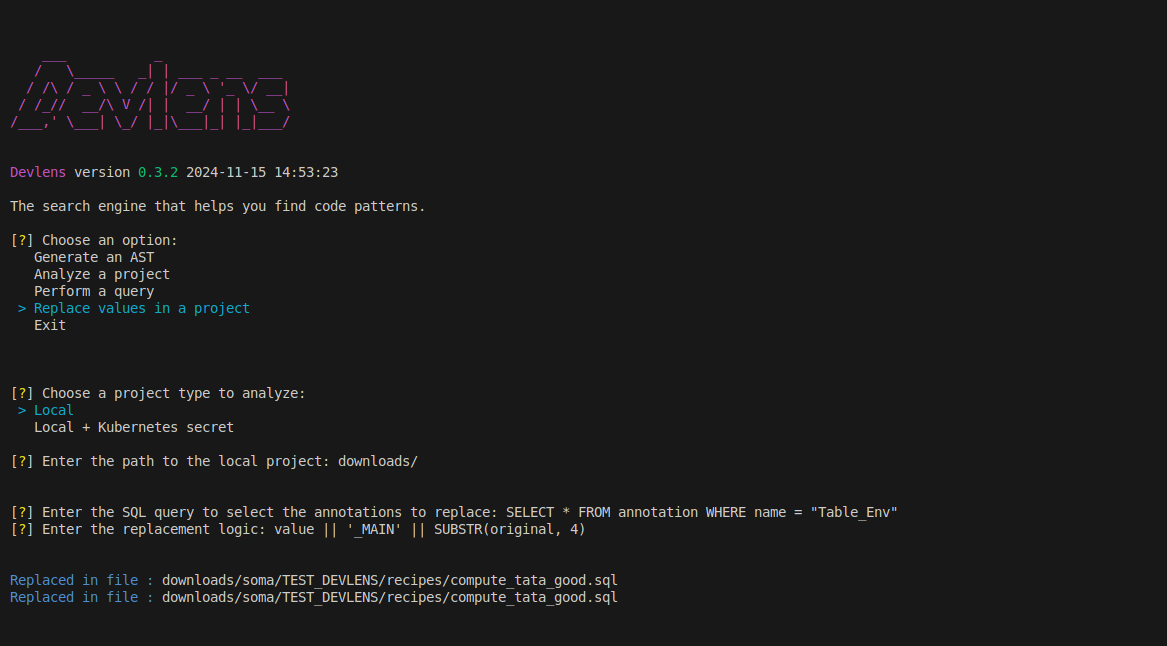
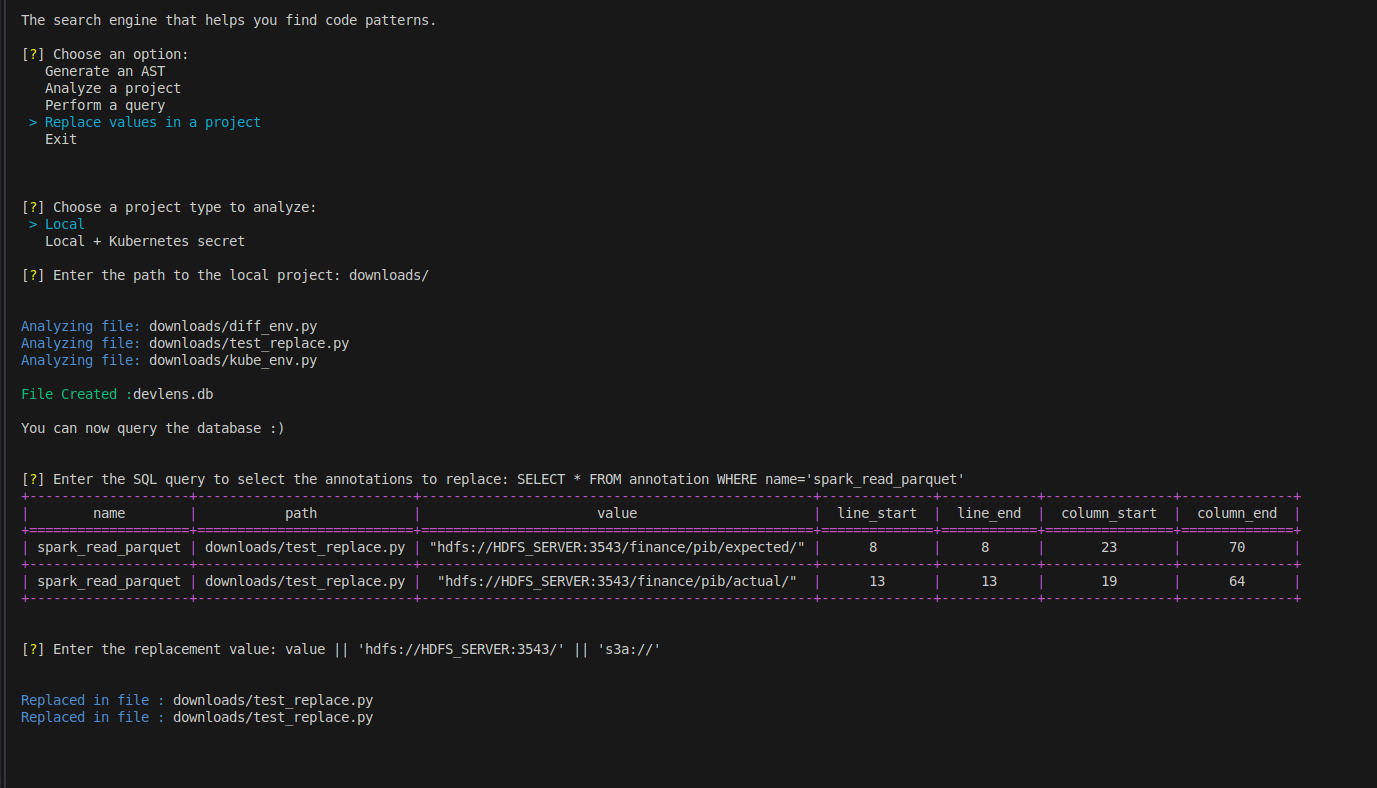
feat:docs

diff --git a/docs/2- Example.md b/docs/2- Example.md
@@ -149,4 +149,84 @@ It also integrate a Dataiku connection to retreive easily your project from any 
 ## Replace 'HDFS' to 'S3'
 
 
+Imagine you want to migrate from HDFS to S3 in your project by changing every occurence of 'hdfs://' by 's3a://':
+
+```python
+
+from pyspark.sql import SparkSession
+from pyspark.sql import functions as F
+
+spark = SparkSession.builder.getOrCreate()
+
+expected_df = (
+    spark.read.parquet("hdfs://HDFS_SERVER:3543/finance/pib/expected/")
+    .withColumn("year", F.year("date"))
+    .withColumnRenamed("pib", "expected_pib")
+)
+actual_df = (
+    spark.read.csv("hdfs://HDFS_SERVER:3543/finance/pib/actual/")
+    .withColumn("year", F.year("date"))
+)
+///....
+
+spark.stop()
+```
+An annotator can find every spark.read you have:
+
+```python 
+from annotators.common.abstract_annotator import AbstractAnnotator
+from annotators.common.annotation import Annotation
+from annotators.common.search import findAll
+
+from antlr4 import ParserRuleContext
+
+
+class SparkReadParquetAnnotator(AbstractAnnotator):
+
+    def parse(self, ast: ParserRuleContext):
+        spark_read = findAll(
+            ast, "Primary", filters={"primary": "spark.read.parquet"}
+        )
+        spark_read += findAll(
+            ast, "Primary", filters={"primary": "spark.read.csv"}
+        )
+        arguments = findAll(spark_read, "Arguments")
+        strings = findAll(arguments, "Strings")
+
+        for expr in strings:
+            yield Annotation(
+                name="spark_read", value=self.getText(expr), context=expr
+            )
+```
+
+
+Then with the **Devlens** replace command, you can change every occurence directly in your terminal 
+
+
+![replace](/../static/img/example/replace.png?raw=true "replace")
+
+
+Then you can check on your code:
+
+```python
+
+from pyspark.sql import SparkSession
+from pyspark.sql import functions as F
+
+spark = SparkSession.builder.getOrCreate()
+
+
+expected_df = (
+    spark.read.parquet("s3a://finance/pib/expected/")
+    .withColumn("year", F.year("date"))
+    .withColumnRenamed("pib", "expected_pib")
+)
+actual_df = (
+    spark.read.parquet("s3a://finance/pib/actual/")
+    .withColumn("year", F.year("date"))
+)
+```
+
+
+
 

diff --git a/docs/2 - Usage command.md b/docs/2 - Usage command.md
@@ -54,6 +54,10 @@ To see the classic mode you can simply execute :
 ```bash
 ./devlens query "SELECT ...."
 ```
+# Replace 
+```bash
+python main.py replace downloads/ "SELECT * FROM annotation WHERE name='Table_Env'" --replace "value || 'replacement' || logic"
+```
 ## Make DEVLENS globally available
 
 If you want to use devlens anywhere on your machine, you might want to make it available globally :

diff --git a/docs/8 - How to replace.md b/docs/8 - How to replace.md
@@ -27,7 +27,7 @@ You will also have a new table create in database to identifies every change don
 
 
 
-### Replacement Statement
+### replacement statement
 
 The replacement Statement take 3 parameter separated by `||`.
 
